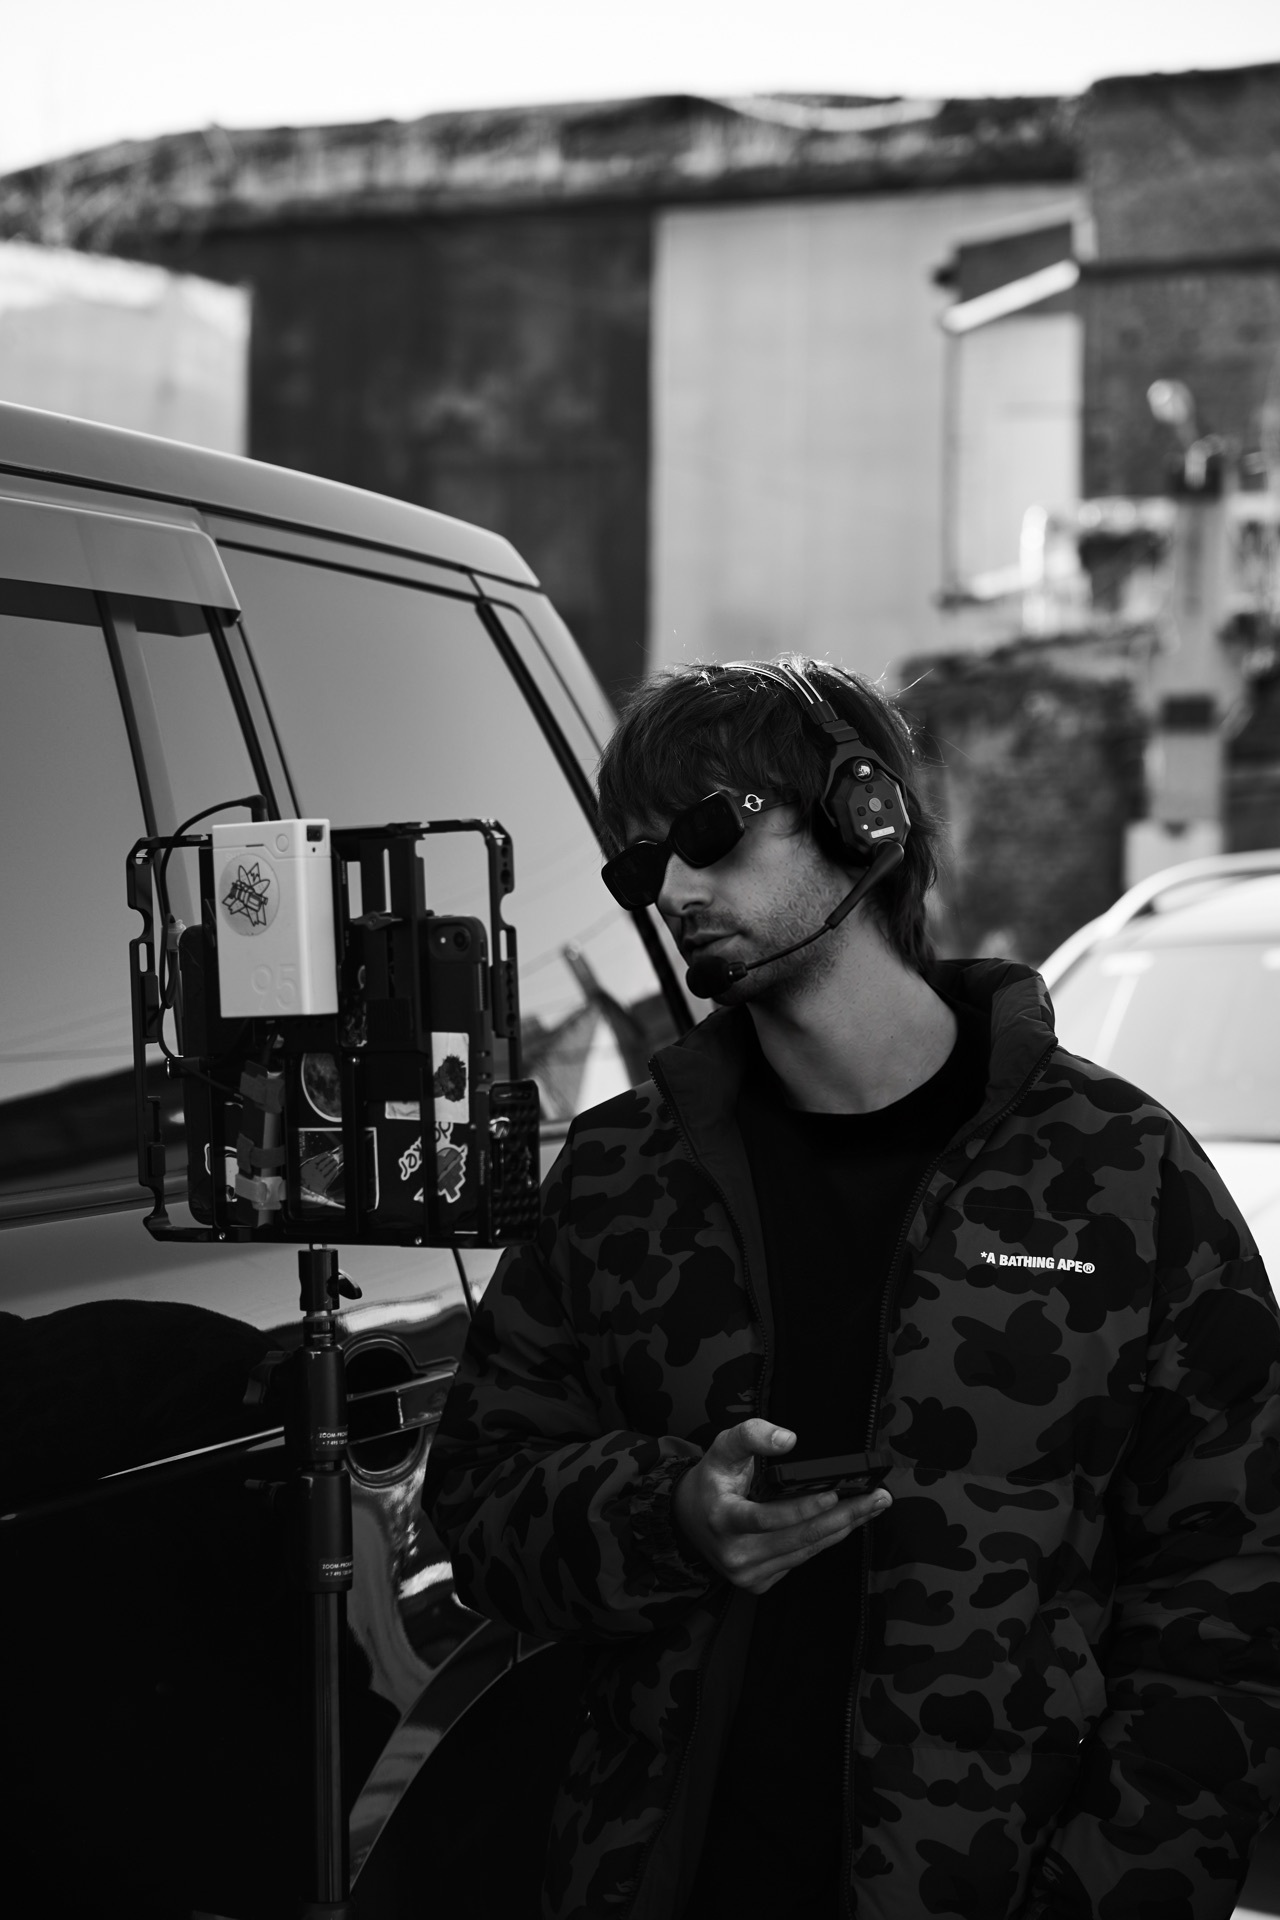
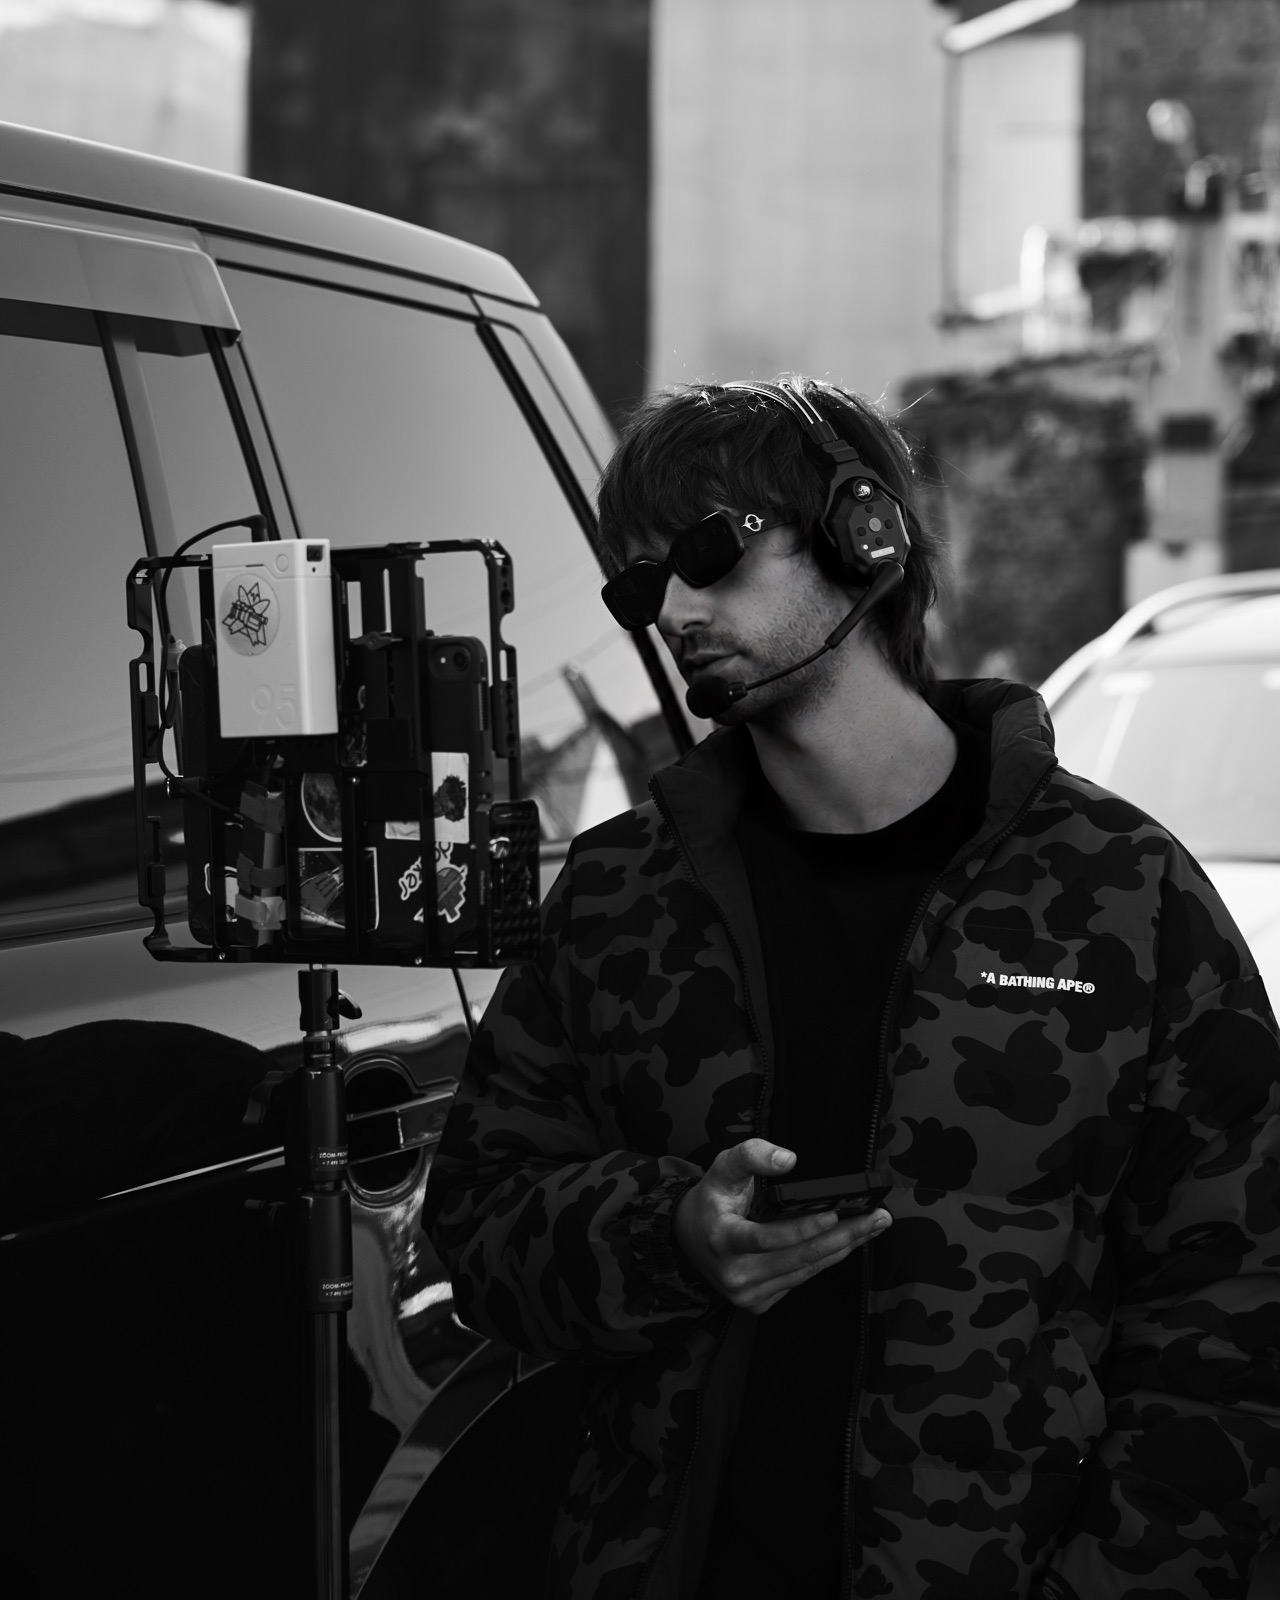
Adjust About photo framing

diff --git a/src/components/about/AboutOverlay.tsx b/src/components/about/AboutOverlay.tsx
@@ -11,7 +11,7 @@ import { SocialLinks } from "@/components/ui/SocialLinks";
 
 const ABOUT_PHOTOS = [
   { src: "/about/dima-about-main.jpg", alt: "Dima Melroz" },
-  { src: "/about/dima-about-set-new.jpg", alt: "Dima Melroz directing on set" },
+  { src: "/about/dima-about-set-new.jpg?v=2", alt: "Dima Melroz directing on set" },
   { src: "/about/dima-about-set-1.jpg", alt: "Dima Melroz on set" },
   { src: "/about/dima-about-set-2.jpg", alt: "Dima Melroz behind the camera" },
 ];
